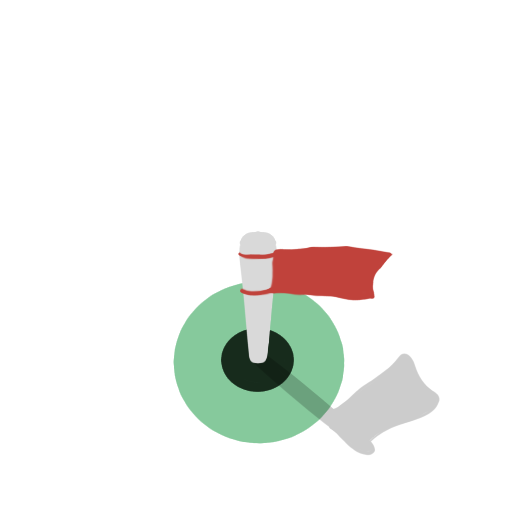
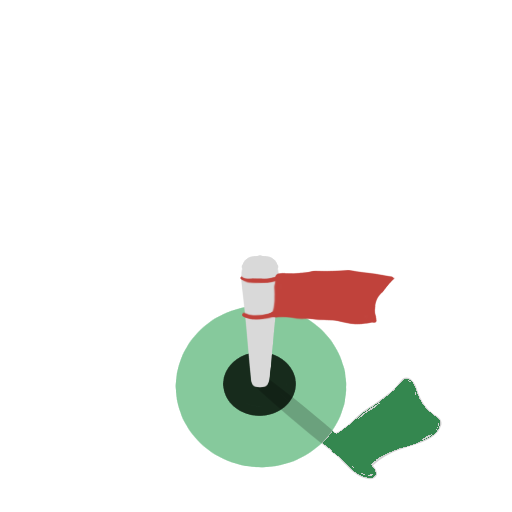
Jeff

Changed region(s): [[0.3125, 0.4375, 0.875, 0.9375]]

diff --git a/holes.js b/holes.js
@@ -1,22 +1,120 @@
 let holes = [
   [],
-  [{
-      tee: { x: 1, y: 2 },
-      hole: { x: 6, y: 2 },
+  [
+    {
+      tee: { x: 1, y: 1 },
+      hole: { x: 2, y: 1 },
       fairway: [
-        [0, 0, 0, 0, 0, 0, 0, 0, 0],
-        [0, 1, 1, 1, 1, 1, 1, 1, 0],
-        [0, 1, 1, 1, 1, 1, 1, 1, 0],
-        [0, 1, 1, 1, 1, 1, 1, 1, 0],
-        [0, 0, 0, 0, 0, 0, 0, 0, 0]
+        [1, 1, 1],
+        [1, 1, 1],
       ],
       machines: [{
         type: "piston",
         variety: "square",
-        rotation: -0.125,
-        x: 4,
-        y: 2.75
+        rotation: 0.25,
+        x: 0,
+        y: 1
       }, ],
+      par: 3,
+      best: 0
+    },
+    {
+      tee: { x: 0.6, y: 2 },
+      hole: { x: 5, y: 1 },
+      fairway: [
+        [1, 1, 1, 1, 1, 1, 1, 1, 1],
+        [1, 1, 1, 1, 1, 1, 1, 1, 1],
+        [1, 1, 1, 1, 0, 0, 1, 1, 1],
+        [1, 1, 1, 1, 0, 0, 1, 1, 1],
+        [1, 1, 1, 1, 0, 0, 1, 1, 1],
+      ],
+      machines: [{
+          type: "piston",
+          variety: "square",
+          rotation: 0.25,
+          x: 0,
+          y: 2
+        }, {
+          type: "piston",
+          variety: "square",
+          rotation: 0,
+          x: 3,
+          y: 3
+        }, {
+          type: "piston",
+          variety: "left-angle",
+          rotation: .25,
+          x: 2,
+          y: 1
+        }, {
+          type: "gate",
+          rotation: 0.5,
+          active: true,
+          x: 4,
+          y: 1
+        },
+
+      ],
+      par: 3,
+      best: 0
+    },
+    {
+      tee: { x: 0.6, y: 2 },
+      hole: { x: 6, y: 2 },
+      fairway: [
+        [1, 1, 1, 1, 1, 1, 1, 1, 1],
+        [1, 1, 1, 1, 1, 1, 1, 1, 1],
+        [1, 1, 1, 1, 1, 1, 1, 1, 1],
+        [1, 1, 1, 1, 1, 1, 1, 1, 1],
+        [1, 1, 1, 1, 1, 1, 1, 1, 1],
+      ],
+      machines: [{
+        type: "piston",
+        variety: "square",
+        rotation: 0.25,
+        x: 0,
+        y: 2
+      }, ],
+      par: 3,
+      best: 0
+    },
+    {
+      tee: { x: 0.6, y: 2 },
+      hole: { x: 5, y: 1 },
+      fairway: [
+        [1, 1, 1, 1, 1, 1, 1, 1, 1],
+        [1, 1, 1, 1, 1, 1, 1, 1, 1],
+        [1, 1, 1, 1, 0, 0, 1, 1, 1],
+        [1, 1, 1, 1, 0, 0, 1, 1, 1],
+        [1, 1, 1, 1, 0, 0, 1, 1, 1],
+      ],
+      machines: [{
+          type: "piston",
+          variety: "square",
+          rotation: 0.25,
+          x: 0,
+          y: 2
+        }, {
+          type: "piston",
+          variety: "square",
+          rotation: 0,
+          x: 3,
+          y: 3
+        }, {
+          type: "piston",
+          variety: "left-angle",
+          rotation: .25,
+          x: 2,
+          y: 1
+        }, {
+          type: "gate",
+          rotation: 0.5,
+          active: true,
+          x: 4,
+          y: 1
+        },
+
+      ],
       par: 3,
       best: 0
     },

diff --git a/playHole.js b/playHole.js
@@ -14,12 +14,12 @@ let holeAR = 1,
 
 let ballD = {
   bullet: true,
-  linearDamping: -4,
+  linearDamping: 0.4,
   angularDamping: 1.2
 };
 let ballFD = {
-  friction: 1,
-  density: 0.5,
+  friction: 0.2,
+  density: 0.3,
   restitution: 0.4
 };
 
@@ -282,7 +282,7 @@ function runHole() {
       switch (hole.fairway[y][x]) {
         case (1):
           if(ball.c_position.c.x >> 0 === x && ball.c_position.c.y >> 0 === y) {
-            ball.setLinearVelocity(ball.m_linearVelocity.mul(0.9));
+            //ball.setLinearVelocity(ball.m_linearVelocity.mul(0.9));
           }
           break;
         case (2):
@@ -571,7 +571,7 @@ function drawHole(x, y, w, h) {
   ctx.fillText(shown.map((a,b)=>a||!fairwayAssets[b]||fairwayAssets[b].img===grass?'':b+',').join(''),20,y+h+w/W/2);/**/
 
   ctx.drawImage(flag,
-    x + w / W * hole.hole.x >> 0,
+    x + w / W * (hole.hole.x - 0.5) >> 0,
     y + h / H * (hole.hole.y - 1) >> 0,
     (x + w / W * (hole.hole.x + 1) >> 0) - (x + w / W * (hole.hole.x - 1) >> 0),
     (y + h / H * (hole.hole.y + 1) >> 0) - (y + h / H * (hole.hole.y - 1) >> 0));
@@ -589,7 +589,8 @@ function drawHole(x, y, w, h) {
       m.draw(m, x, y, w, h);
     }
   }
-  drawStaticObject(x, y, ball.c_position.c.x, ball.c_position.c.y, w / W, golfBall);
+  //drawStaticObject(x, y, ball.c_position.c.x, ball.c_position.c.y, w / W, golfBall);
+  drawObject(x, y, w/W, ball, jeff, 0.3);
   if(dev) {
     debugBodies(x, y, w / W);
   }

diff --git a/assetsList.js b/assetsList.js
@@ -138,6 +138,10 @@ const sandCornerShadow = new Image();
 sandCornerShadow.src = 'assets/sandCornerShadow.png';
 
 
+const jeff = new Image();
+jeff.src = 'assets/jeff.png';
+
+
 const trapDoor = new Image();
 trapDoor.src = 'assets/trapdoorClosed.png';
 

diff --git a/game.js b/game.js
@@ -33,8 +33,7 @@ let w = c.width,
 let mouseX = 0,
   mouseY = 0;
 //check aspect ratio
-let ARType = 1,
-  min;
+let ARType = 1, min;
 
 let standardUnit = 1;
 
